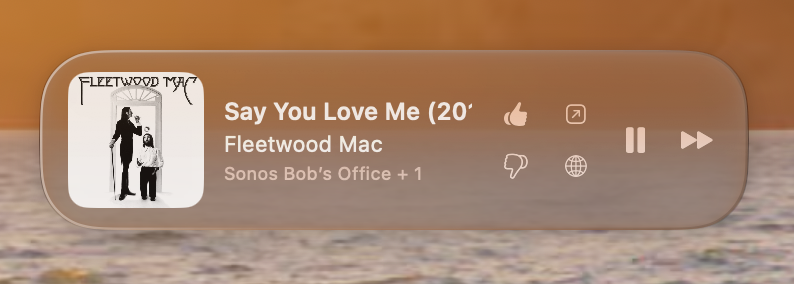
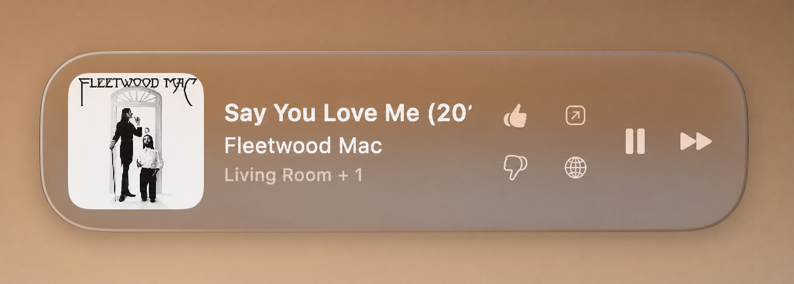
Scrub private repository details

diff --git a/Tests/SonoGlassTests/SonoGlassTests.swift b/Tests/SonoGlassTests/SonoGlassTests.swift
@@ -30,10 +30,10 @@ import Foundation
     }
 
     @Test func parsesModernCloudQueueShape() {
-        // Verbatim shape observed live on 2026-07 firmware.
-        let uri = "x-sonos-http:VC1%3a%3aST%3a%3aST%3a50735628413459788%3a%3aTR%3a136704%3a%3a34%3a%3aRINCON_347E5CD222DE01400%3a730405094.mp3?sid=236&flags=32768&sn=2"
+        // Fixture modeled on the cloud-queue shape observed on 2026-07 firmware.
+        let uri = "x-sonos-http:VC1%3a%3aST%3a%3aST%3a12345678900000000%3a%3aTR%3a424242%3a%3a7%3a%3aRINCON_00112233445501400%3a100000001.mp3?sid=236&flags=32768&sn=2"
         let ref = PandoraTrackRef.parse(trackURI: uri)
-        #expect(ref == .modern(trackId: "TR:136704", stationId: "50735628413459788"))
+        #expect(ref == .modern(trackId: "TR:424242", stationId: "12345678900000000"))
     }
 
     @Test func legacyShapeStillParsesAsLegacy() {
@@ -239,9 +239,9 @@ import Foundation
 
 @Suite struct SMAPITests {
     @Test func extractsItemIDFromCloudQueueURI() {
-        let uri = "x-sonos-http:VC1%3a%3aST%3a%3aST%3a50735628413459788%3a%3aTR%3a136704%3a%3a34%3a%3aRINCON_347E5CD222DE01400%3a730405094.mp3?sid=236&flags=32768&sn=2"
+        let uri = "x-sonos-http:VC1%3a%3aST%3a%3aST%3a12345678900000000%3a%3aTR%3a424242%3a%3a7%3a%3aRINCON_00112233445501400%3a100000001.mp3?sid=236&flags=32768&sn=2"
         #expect(PandoraSMAPI.itemID(fromTrackURI: uri)
-                == "VC1::ST::ST:50735628413459788::TR:136704::34::RINCON_347E5CD222DE01400:730405094")
+                == "VC1::ST::ST:12345678900000000::TR:424242::7::RINCON_00112233445501400:100000001")
     }
 
     @Test func extractsItemIDFromMp4AndProgVariant() {
@@ -251,7 +251,7 @@ import Foundation
     }
 
     @Test func derivesSonosDeviceIDFromUDN() {
-        #expect(PandoraSMAPI.deviceId(fromUDN: "RINCON_347E5CD222DE01400") == "34-7E-5C-D2-22-DE:0")
+        #expect(PandoraSMAPI.deviceId(fromUDN: "RINCON_00112233445501400") == "00-11-22-33-44-55:0")
     }
 
     @Test func ratingValuesMatchPresentationMap() {

diff --git a/Sources/SonosKit/PandoraSMAPI.swift b/Sources/SonosKit/PandoraSMAPI.swift
@@ -94,7 +94,7 @@ public actor PandoraSMAPI {
     }
 
     /// A stable Sonos-style deviceId (MAC:0) derived from a coordinator UDN
-    /// like RINCON_347E5CD222DE01400.
+    /// like RINCON_00112233445501400.
     public static func deviceId(fromUDN udn: String) -> String {
         var hex = udn
         if let r = hex.range(of: "RINCON_") { hex = String(hex[r.upperBound...]) }

diff --git a/CHANGELOG.md b/CHANGELOG.md
@@ -1,11 +1,9 @@
 # SonoGlass — Engineering Log
 
 What was built, in order, and **why** — including the dead ends, because the
-dead ends are where the knowledge is. Newest last. (Commit hashes below are
-from the original private history, which was re-authored before going public —
-treat them as narrative labels, not links.)
+dead ends are where the knowledge is. Newest last.
 
-## 2026-07-11 — Day one: the whole app (`d3942a1` → `a0676e5`)
+## 2026-07-11 — Day one: the whole app
 
 **Goal:** replace the abandoned official Sonos desktop app with a native macOS
 menu bar controller whose killer feature is Pandora thumbs — which no shipping
@@ -24,10 +22,10 @@ third-party Mac controller has.
   macro-izes SwiftUI property wrappers with plugins that only ship inside full
   Xcode → pinned the macOS 26.5 SDK. CLT hides `Testing.framework` →
   `run_tests.sh` passes explicit framework/plugin/rpath flags.
-- Verified live against the household (5 groups): discovery, topology,
+- Verified live against a multi-room household: discovery, topology,
   transport, volume, favorites/playlists/stations playback, events.
 
-## 2026-07-11/12 — The Pandora thumbs saga (`4387676` → `d3b9bcb`)
+## 2026-07-11/12 — The Pandora thumbs saga
 
 The spec assumed track URIs carried Pandora v5 `trackToken`s. Modern firmware
 doesn't: cloud-queue URIs (`VC1::ST::ST:{station}::TR:{track}::…`) carry only
@@ -40,13 +38,13 @@ catalog ids. Four approaches were tested live, in order:
    ("Current index or trackToken must be provided"). The one early "success"
    was an update to a track thumbed years ago — a misleading false positive.
    *Dead end (kept for diagnostics).*
-3. **SMAPI `rateItem` + AppLink device link** (`0094453`, `ba646ca`) — the
+3. **SMAPI `rateItem` + AppLink device link** — the
    full device-link flow was built and works (gotcha: `getDeviceAuthToken`
    must echo the service-generated `linkDeviceId` from `getAppLink`, or it
    returns NOT_LINKED_RETRY forever). But Pandora's `rateItem` endpoint is a
    **stub**: it answers success and persists nothing (`getExtendedMetadata`
    rating stays 0). *Dead end (code kept — powers the `pandora-probe` CLI).*
-4. **The player's local control websocket** (`b9d0f46`) — per Sonos's
+4. **The player's local control websocket** — per Sonos's
    programmed-radio spec, ratings are POSTed *by the player* to the service.
    `wss://{ip}:1443/websocket/api` (public sample API key) exposes
    `playbackMetadata:1 → rate` with the current queue `itemId`; the player
@@ -60,13 +58,13 @@ the iPhone app shows the full feedback store, the v5 per-station lists are
 capped, and the pandora.com profile "Thumbs Up" page misses even thumbs made
 on pandora.com itself.
 
-## 2026-07-12 — Polish & the menu bar icon (`ea05208`, `c8810d4`)
+## 2026-07-12 — Polish & the menu bar icon
 
 - Icon briefly pinned to the two-speaker glyph by request, then restored:
   it's a group-size indicator (one speaker = single room, two = multi-room
   group; fills while playing).
 
-## 2026-07-12 — Mini player: real glass (`be2a9f3`, `63e78e9`)
+## 2026-07-12 — Mini player: real glass
 
 The first version read as a flat die-cut sticker. Fixes: kill the window's
 hard shadow and float the glass card in a transparent margin with layered
@@ -76,7 +74,7 @@ top-left refraction → faint dark bottom edge = perceived thickness); soft top
 sheen; Apple's `clear` glass variant instead of frosted; 30 pt continuous
 corners.
 
-## 2026-07-12 — Apple Music Favorites (`5b96f94`, `d96e773`)
+## 2026-07-12 — Apple Music Favorites
 
 - ☆ button (popover + mini player) toggles the song's Favorite via MusicKit
   (`PUT/DELETE /v1/me/ratings/songs/{id}`), prefilled from the current rating.
@@ -91,7 +89,7 @@ corners.
   once so Xcode could mint a fresh one.
 - User-confirmed working on multiple songs.
 
-## 2026-07-12 — The Shazam-killer funnel (`3fc7820` → `8960049`)
+## 2026-07-12 — The Shazam-killer funnel
 
 **Why:** the user's discovery loop was Pandora-on-Sonos → Shazam the speaker →
 find the song in Apple Music → favorite/add. SonoGlass already *knows* the
@@ -109,7 +107,7 @@ Apple Music library, one enriches Pandora.
   *not* `shareableUrlPath`); falls back to a pandora.com search page.
   Website chosen over the Pandora Mac app deliberately: the app is an Electron
   shell with no deep links; the site has the session and full backstage.
-- Marquee scrolling (`8960049`) for overflowing title/artist in the mini
+- Marquee scrolling for overflowing title/artist in the mini
   player and popover: pause → glide to reveal the end → pause → glide back.
 
 ## Diagnostic tooling (grew throughout; keep these)
@@ -121,7 +119,7 @@ Apple Music library, one enriches Pandora.
 - `wsprobe` pattern (scratch): raw player-websocket experiments — this is how
   the `rate` command was discovered.
 
-## 2026-07-12 — Grouping & per-room volume (`8960049` →)
+## 2026-07-12 — Grouping & per-room volume
 
 - **Group editor** (⧉ next to the room picker): check a room to pull it into
   the current group (`SetAVTransportURI x-rincon:{coordinatorUDN}` on the

diff --git a/README.md b/README.md
@@ -42,7 +42,7 @@ Favorites live on the speakers; Pandora stations use your Pandora credentials
 
 ## Status
 
-Personal project, built and used daily against a real 8-speaker household.
+Personal project, built and used daily against a multi-speaker household.
 Not affiliated with Sonos, Pandora, or Apple. Uses documented-but-unofficial
 local protocols; a firmware or API change could break pieces of it (the
 `pandora-probe` / `sonoglass-diag` CLIs exist to diagnose exactly that).